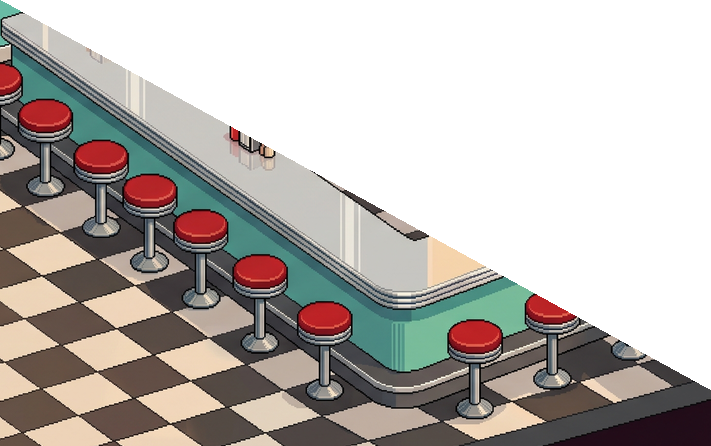
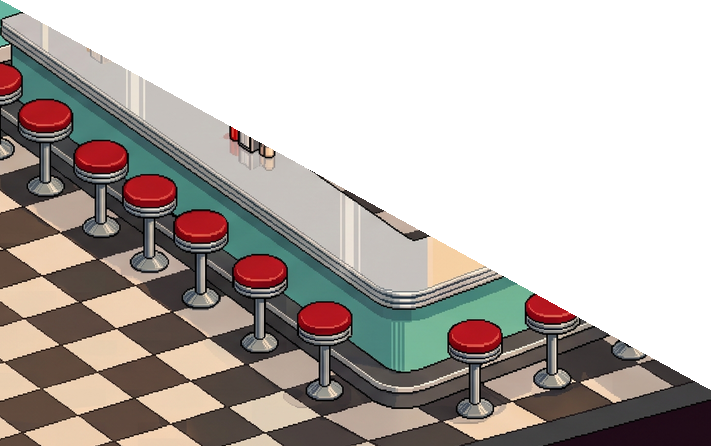
Use akira's corrected Diner interior (COLLECTIVE DINER neon)

diff --git a/src/components/porthole/PortholeViewer.tsx b/src/components/porthole/PortholeViewer.tsx
@@ -32,7 +32,7 @@ type Light = { cx: number; cy: number; rx: number; ry: number; a: number };
 const FLOORS: Record<FloorId, { shop: Shop["id"]; src: string; alt: string; sign: string; panes: Pane[]; paneTint: string; closedLights: Light[]; openSrc?: string; actors: Actor[]; fx?: "grill"; /** 住人より手前に重ねるレイヤー（カウンター等） */ front?: { src: string; box: [number, number, number, number] } }> = {
   "1F": {
     shop: "collective-diner",
-    // 店内の絵は akira 作（キャラなしの内装）。ネオンは「COLLECTIVE DINER」に差し替え済み
+    // 店内の絵は akira 作（キャラなしの内装・ネオン「COLLECTIVE DINER」）
     src: "/scenes/diner-1f.webp",
     alt: "COLLECTIVE DINER の店内。バイソンがカウンターの奥で肉を焼き、プロングホーンがローラースケートで配膳している",
     sign: "1F DINER ／ Open 5 AM",
